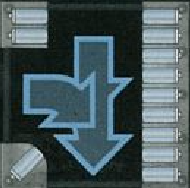
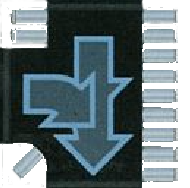
Made transparent background for images

Changed region(s): [[0.7368, 0.0, 1.0, 1.0], [0.0, 0.7447, 0.2632, 1.0], [0.0, 0.0, 0.2632, 0.266]]

diff --git a/RoboRally/src/main/java/gruppe15/roborally/model/Board.java b/RoboRally/src/main/java/gruppe15/roborally/model/Board.java
@@ -23,6 +23,7 @@ package gruppe15.roborally.model;
 
 import gruppe15.observer.Subject;
 import gruppe15.roborally.model.events.PhaseChangeListener;
+import javafx.geometry.Point2D;
 import org.jetbrains.annotations.NotNull;
 
 import java.util.ArrayList;
@@ -65,17 +66,43 @@ public class Board extends Subject {
         this.width = width;
         this.height = height;
         spaces = new Space[width][height];
+        if (boardName.equals("defaultboard")) {
+
+        } else if (boardName.equals("dizzy_highway")) {
+            Point2D[] startFieldPoints = {
+                    new Point2D(1,1),
+                    new Point2D(0, 3),
+                    new Point2D(1, 4),
+                    new Point2D(1, 5),
+                    new Point2D(0, 6),
+                    new Point2D(1, 8)
+            };
+            for (Point2D startFieldPoint : startFieldPoints) {
+                int x = (int) startFieldPoint.getX();
+                int y = (int) startFieldPoint.getY();
+                spaces[x][y] = new Space(this, x, y, new BoardElement("startField.png"), true);
+            }
+            spaces[0][4] = new Space(this, 0, 4, new BoardElement("antenna.png"), true);
+        }
+
+        // Fill the rest of the board with empty spaces
         for (int x = 0; x < width; x++) {
             for(int y = 0; y < height; y++) {
-                Space space = new Space(this, x, y);
-                spaces[x][y] = space;
+                Space newSpace;
+                if (x < 3) {
+                    newSpace = new Space(this, x, y, null, true);
+                } else {
+                    newSpace = new Space(this, x, y);
+                }
+                if (spaces[x][y] == null) spaces[x][y] = newSpace;
             }
         }
         this.stepMode = false;
     }
 
     public Board(int width, int height) {
-        this(width, height, "defaultboard");
+        //this(width, height, "defaultboard");
+        this(width, height, "dizzy_highway");
     }
 
     public Integer getGameId() {

diff --git a/RoboRally/src/main/java/gruppe15/roborally/model/BoardElement.java b/RoboRally/src/main/java/gruppe15/roborally/model/BoardElement.java
@@ -14,17 +14,23 @@ public class BoardElement {
     private final Image image;
 
     /**
-     *
      * @param hasWall
      * @param isHole
      * @param wallDirection
      * @param imageName Specified by the file name + the file extension. E.g: "empty.png".
      */
-    public BoardElement(boolean hasWall, boolean isHole, Heading wallDirection, String imageName) {
+    public BoardElement(boolean hasWall, Heading wallDirection, boolean isHole, String imageName) {
         this.hasWall = hasWall;
         this.isHole = isHole;
         this.wallDirection = wallDirection;
         this.image = ImageUtils.getImageFromName(imageName);
+    }
+
+    public BoardElement(boolean hasWall, boolean isHole, String imageName) {
+        this(hasWall, Heading.NORTH, isHole,  imageName);
+    }
+    public BoardElement(String imageName) {
+        this(false, Heading.NORTH, false,  imageName);
     }
 
     public boolean getHasWall() {

diff --git a/RoboRally/src/main/java/gruppe15/roborally/model/Space.java b/RoboRally/src/main/java/gruppe15/roborally/model/Space.java
@@ -48,14 +48,22 @@ public class Space extends Subject {
         this(board, x, y, null);
     }
 
-    public Space(Board board, int x, int y, BoardElement boardElement) {
+    public Space(Board board, int x, int y, BoardElement boardElement, boolean isOnStartBoard) {
         this.board = board;
         this.x = x;
         this.y = y;
         player = null;
         //this.boardElement = new BoardElement(false, false, NORTH);
         this.boardElement = boardElement;
-        backgroundImage = ImageUtils.getImageFromName("empty.png");
+        if (isOnStartBoard) {
+            backgroundImage = ImageUtils.getImageFromName("emptyStart.png");
+        } else {
+            backgroundImage = ImageUtils.getImageFromName("empty.png");
+        }
+    }
+
+    public Space(Board board, int x, int y, BoardElement boardElement) {
+        this(board, x, y, boardElement, false);
     }
 
     public Player getPlayer() {

diff --git a/RoboRally/src/main/java/gruppe15/roborally/controller/AppController.java b/RoboRally/src/main/java/gruppe15/roborally/controller/AppController.java
@@ -76,7 +76,7 @@ public class AppController implements Observer {
 
             // XXX the board should eventually be created programmatically or loaded from a file
             //     here we just create an empty board with the required number of players.
-            Board board = new Board(8,8);
+            Board board = new Board(13,10);
             gameController = new GameController(board);
             int no = result.get();
             for (int i = 0; i < no; i++) {
